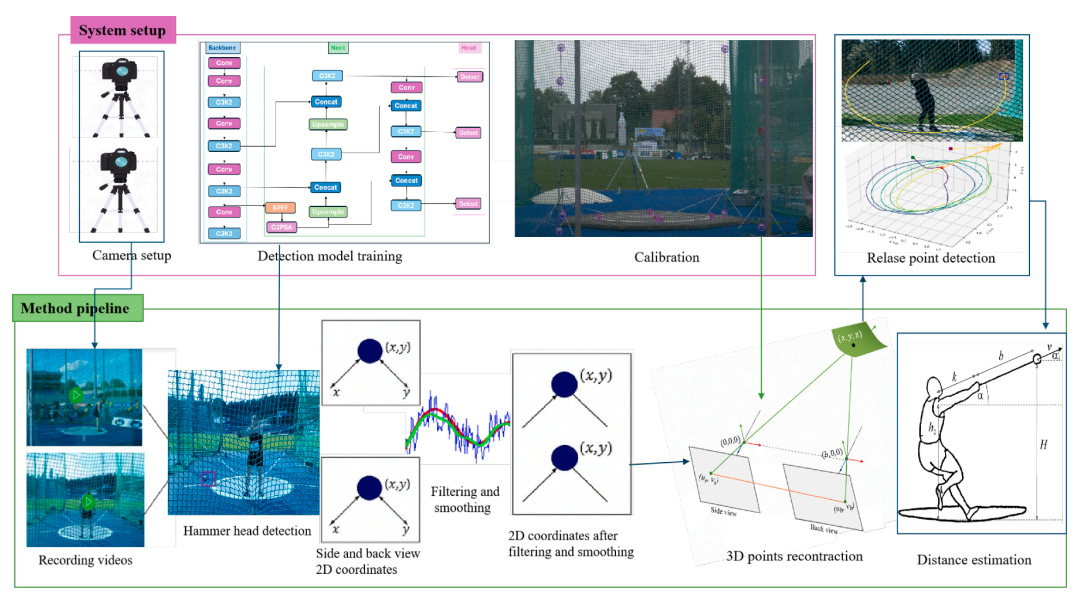
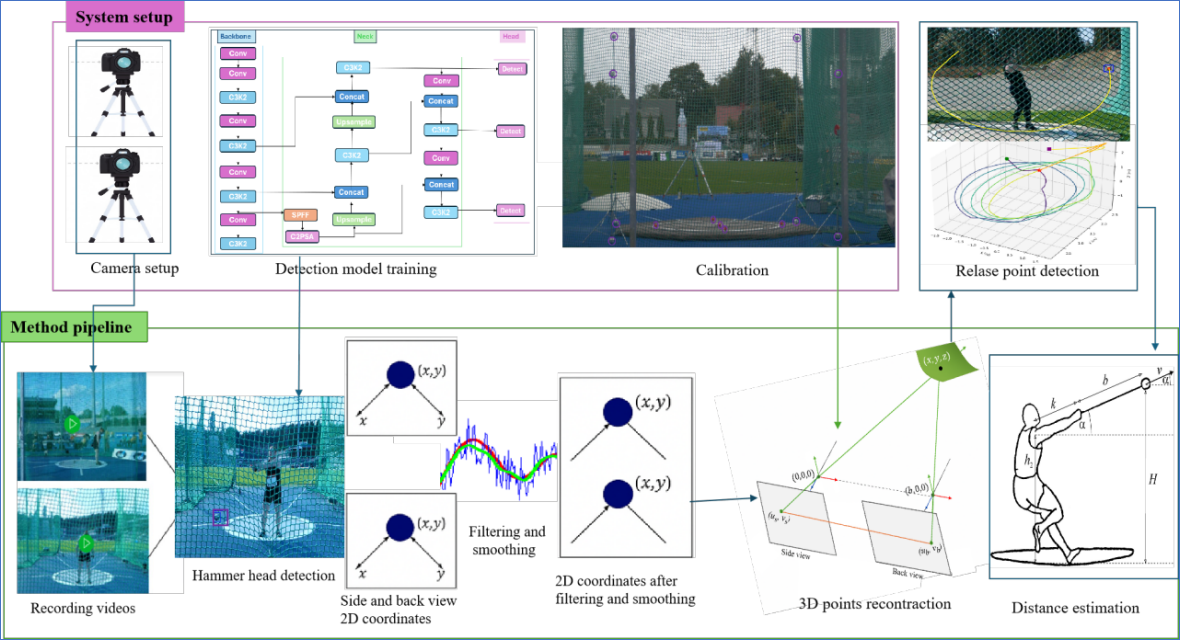
Update local styles and image

diff --git a/stylesheet.css b/stylesheet.css
@@ -129,3 +129,34 @@ name {
 span.highlight {
   background-color: #ffffd0;
 }
+
+.affiliations {
+  display: flex;
+  justify-content: center;
+  align-items: center;
+  gap: 12px 20px;
+  flex-wrap: wrap;
+  margin: 15px auto;
+  width: 100%;
+  max-width: 900px;
+}
+
+.affiliations a {
+  display: inline-flex;
+  align-items: center;
+  justify-content: center;
+  flex: 0 0 auto;
+  transition: opacity 0.3s ease;
+}
+
+.affiliations a:hover {
+  opacity: 0.8;
+}
+
+.affiliations img {
+  height: auto;
+  width: auto;
+  max-height: 70px;
+  max-width: 150px;
+  object-fit: contain;
+}